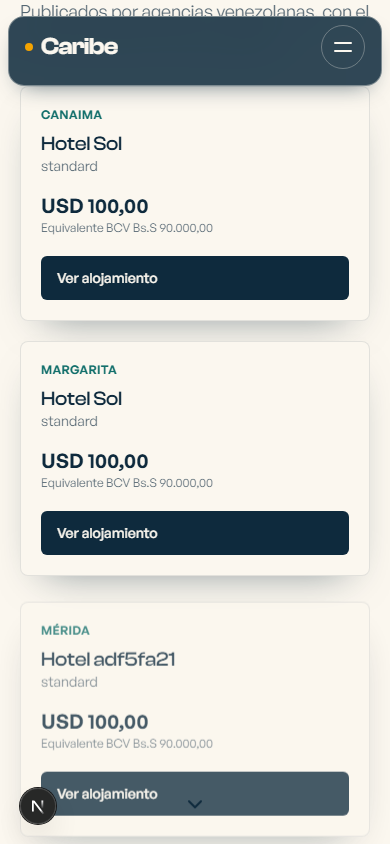
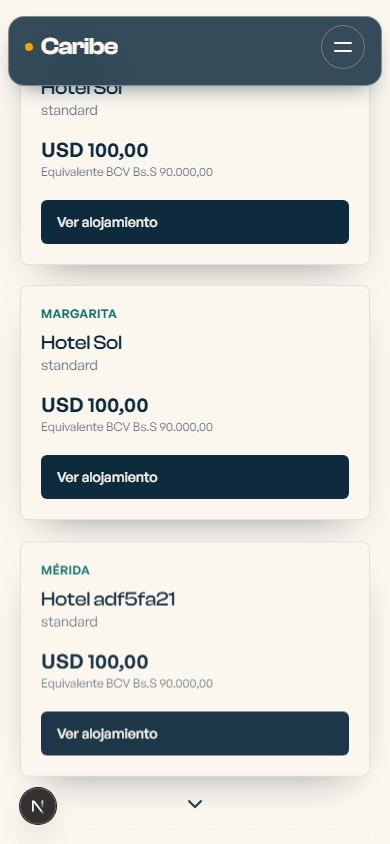
fix(web): alinear las anclas con el viewport
El ancla dejaba 112px de la seccion anterior bajo la cabecera flotante. Ahora el borde de la seccion destino queda alineado con el viewport y su padding mantiene el contenido por debajo de la barra.

Task: T-NAV-23

Task: T-NAV-11

diff --git a/apps/web/test/scroll-cue.test.ts b/apps/web/test/scroll-cue.test.ts
@@ -43,6 +43,19 @@ describe("gesto de bajada", () => {
     expect(cue).not.toContain("scale(");
   });
 
+  it("alinea la sección destino con el viewport al seguir un ancla", () => {
+    const css = read("src/app/globals.css");
+    const target = css.slice(css.indexOf(".scroll-target"), css.indexOf(".scroll-cue"));
+    expect(target).toContain("scroll-margin-top: 0");
+    expect(target).not.toContain("scroll-margin-top: 7rem");
+
+    const page = read("src/app/[locale]/page.tsx");
+    const featured = read("src/components/featured-stays.tsx");
+    expect(page).toContain('id="search" className="search-stage scroll-target relative py-16');
+    expect(page).toContain("scroll-target flex min-h-dvh flex-col");
+    expect(featured).toContain("scroll-target relative flex min-h-dvh flex-col");
+  });
+
   it("interpola el desplazamiento y lo cancela ante una acción del usuario", () => {
     const source = read("src/components/scroll-cue.tsx");
     expect(source).toContain("const SCROLL_DURATION_MS = 760");

diff --git a/apps/web/src/app/globals.css b/apps/web/src/app/globals.css
@@ -83,9 +83,10 @@ body {
   @apply bg-bone font-body text-ink antialiased;
 }
 
-/* Compensa la barra flotante al llegar a una sección con ancla. */
+/* El ancla alinea el borde de la sección con el viewport: la barra flotante cae
+   sobre el relleno propio de la sección y no deja ver la sección anterior. */
 .scroll-target {
-  scroll-margin-top: 7rem;
+  scroll-margin-top: 0;
 }
 
 /* En pantallas bajas se compacta el contenido para que nada quede tapado. */

diff --git a/openspec/changes/f1-navigation-refresh/verify.md b/openspec/changes/f1-navigation-refresh/verify.md
@@ -9,8 +9,9 @@
   `bfaf709` (T-NAV-7), `6c2cf49` (T-NAV-14), `bd43a8f` (T-NAV-15), `4649503` (T-NAV-16),
   `d8be0ce` (T-NAV-8), `e8de458` (T-NAV-9), `a4285ec` (T-NAV-10), `abb7b0d` (T-NAV-17),
   `0dc11b4` (T-NAV-18), `e380293` (T-NAV-19/20/21: flecha con descenso suave, menú móvil apilado y
-  contenido ajustado al viewport) y T-NAV-22 (bajada interpolada entre secciones). Los commits
-  `b44ae72`, `9ac4623` y `321f562` actualizan la spec antes del código.
+  contenido ajustado al viewport), `b41dd08` (T-NAV-22, bajada interpolada entre secciones) y
+  T-NAV-23 (anclas alineadas con el viewport). Los commits `b44ae72`, `9ac4623`, `321f562` y
+  `76613d3` actualizan la spec antes del código.
   `0bd9916` es el arreglo del lock de BullMQ acordado aparte: no cambia esta spec ni su comportamiento.
 - **Entorno:** web en `:3000` (`pnpm --filter @caribe/web dev`), API en `:3002`
   (`pnpm --filter @caribe/api dev`), PostgreSQL y Redis locales, datos de demostración sembrados y
@@ -80,8 +81,9 @@ final queda a criterio del dueño con las capturas adjuntas.
 | Menú vertical | `verify:navigation`: «cabecera móvil con hamburgesa y 7 ítems apilados» comprueba `aria-expanded`, `flex-direction: column`, siete filas con `top` distinto y ancho mayor de 200px; icono de cruz en `globals.css`; `header-menu-mobile.png`. |
 | Borde de glass | El verificador de barra exige `border: 1px` y `box-shadow` con `inset`; `verify:contrast` en claro y oscuro. |
 | Pulsación de la flecha | `verify:navigation`: «flecha con descenso suave al pulsar, sin golpe» comprueba `--cue-press-y: 8px` al pulsar en 140ms y vuelta en 320ms, ausencia de `--cue-scale` y de `::after` con onda, y transición de `transform`; con movimiento reducido `--cue-press-y: 0px` con el fondo visible. `test/scroll-cue.test.ts` › «baja rápido y vuelve despacio...»; `home-arrow-pressed-*.png`. |
-| Bajada gradual entre secciones | `verify:navigation`: «bajada interpolada en 21 posiciones hasta 616px» muestrea `scrollY` fotograma a fotograma tras pulsar; además «flecha al buscador», «flecha a destacados» y «flecha al cierre». `test/scroll-cue.test.ts` › «interpola el desplazamiento y lo cancela ante una acción del usuario». |
-| Hero sin solapamiento | `verify:navigation` a 390x844 y 360x640: «hero sin solapamiento y ancho útil respetado» comprueba que título y subtítulo empiezan bajo la barra, la CTA queda sobre la flecha, el hero no supera el viewport y el ancla compensa la cabecera. |
+| Bajada gradual entre secciones | `verify:navigation`: «bajada interpolada en 36 posiciones hasta 728px» muestrea `scrollY` fotograma a fotograma tras pulsar; además «flecha al buscador», «flecha a destacados» y «flecha al cierre». `test/scroll-cue.test.ts` › «interpola el desplazamiento y lo cancela ante una acción del usuario». |
+| Anclas sin franja anterior | `verify:navigation`: «ancla #search/#destacados/#cierre alineada, sin sección anterior bajo la cabecera» a 1280x720 y 390x844: comprueba `top ≈ 0`, que el elemento en `y=8` pertenece a la sección destino y que su `h2` queda por debajo de la barra. `test/scroll-cue.test.ts` › «alinea la sección destino con el viewport al seguir un ancla»; `home-search-*.png` y `featured-*.png`. |
+| Hero sin solapamiento | `verify:navigation` a 390x844 y 360x640: «hero sin solapamiento y ancho útil respetado» comprueba que título y subtítulo empiezan bajo la barra, la CTA queda sobre la flecha, el hero no supera el viewport y el encabezado del ancla queda bajo la barra sin desplazar el destino. |
 | Secciones en pantalla baja | `verify:navigation` a 360x640 verifica los destinos de búsqueda, destacados y cierre; `globals.css` compacta espaciados y alturas con `@media (max-height: 700px)`. |
 | Flecha en móvil | `verify:navigation` a 360x640: «flecha de sección dentro del viewport» mide 48x48 y respeta `env(safe-area-inset-bottom)`. |
 | Texto normal y grande | `verify:contrast`: AA en 8 rutas x 2 esquemas; umbrales 4.5:1 y 3:1. |
@@ -97,9 +99,9 @@ final queda a criterio del dueño con las capturas adjuntas.
 | --- | --- |
 | `pnpm lint` | Verde: 4 tareas, 0 errores. |
 | `pnpm typecheck` | Verde: 5 tareas, 0 errores. |
-| `pnpm test` | Verde en todos los paquetes; web 16 archivos y 96 pruebas, API en caché. |
+| `pnpm test` | Verde en todos los paquetes; web 16 archivos y 97 pruebas, API en caché. |
 | `node scripts/check-specs.mjs` | `OK: 8 specs válidas`. |
-| `pnpm --filter @caribe/web verify:navigation` | Verde: 64 comprobaciones, 14 rutas en `es`/`en`, menú móvil apilado, geometría del hero, bajada interpolada, flechas y reservas. |
+| `pnpm --filter @caribe/web verify:navigation` | Verde: 70 comprobaciones, 14 rutas en `es`/`en`, menú móvil apilado, geometría del hero, bajada interpolada, anclas alineadas, flechas y reservas. |
 | `pnpm --filter @caribe/web verify:contrast` | Verde: «texto visible con contraste AA en claro y oscuro (8 rutas x 2 esquemas)». |
 | `pnpm --filter @caribe/web capture:screenshots ...` | Verde; 50 PNG válidos en claro y oscuro. |
 

diff --git a/openspec/changes/f1-navigation-refresh/tasks.md b/openspec/changes/f1-navigation-refresh/tasks.md
@@ -47,9 +47,9 @@ Una tarea a la vez. Capturas de escritorio y móvil antes de cada commit en
   Prueba: escenarios «Hero sin solapamiento» y «Secciones en pantalla baja» de `specs/web-ui/spec.md`; `verify:navigation` con 390x844 y 360x640; capturas de portada en móvil; lint, typecheck y tests en verde.
 - [x] T-NAV-22 Animar explícitamente la bajada entre secciones con `requestAnimationFrame` (760ms, ease-in-out cúbica, cancelable) y ajustar la pulsación asimétrica de la flecha.
   Prueba: escenarios «Pulsación de la flecha» y «Bajada gradual entre secciones» de `specs/web-ui/spec.md`; `verify:navigation` midiendo posiciones intermedias; capturas de portada en móvil; lint, typecheck y tests en verde.
-- [ ] T-NAV-23 Alinear el borde superior de la sección destino con el viewport al seguir un ancla, para que la cabecera no deje ver una franja de la sección anterior.
+- [x] T-NAV-23 Alinear el borde superior de la sección destino con el viewport al seguir un ancla, para que la cabecera no deje ver una franja de la sección anterior.
   Prueba: escenario «Bajada gradual entre secciones» de `specs/web-ui/spec.md`; `verify:navigation` comprobando el elemento bajo la cabecera en las tres anclas; capturas de búsqueda y destacados; lint, typecheck y tests en verde.
-- [ ] T-NAV-11 Verificación final de la change: revisar capturas, ejecutar los verificadores de navegación y contraste, lint, typecheck y tests completos, y documentar la evidencia en `verify.md`.
+- [x] T-NAV-11 Verificación final de la change: revisar capturas, ejecutar los verificadores de navegación y contraste, lint, typecheck y tests completos, y documentar la evidencia en `verify.md`.
   Prueba: todos los escenarios de `specs/web-ui/spec.md` con evidencia; `node scripts/check-specs.mjs` en verde.
 
 ## Notas
